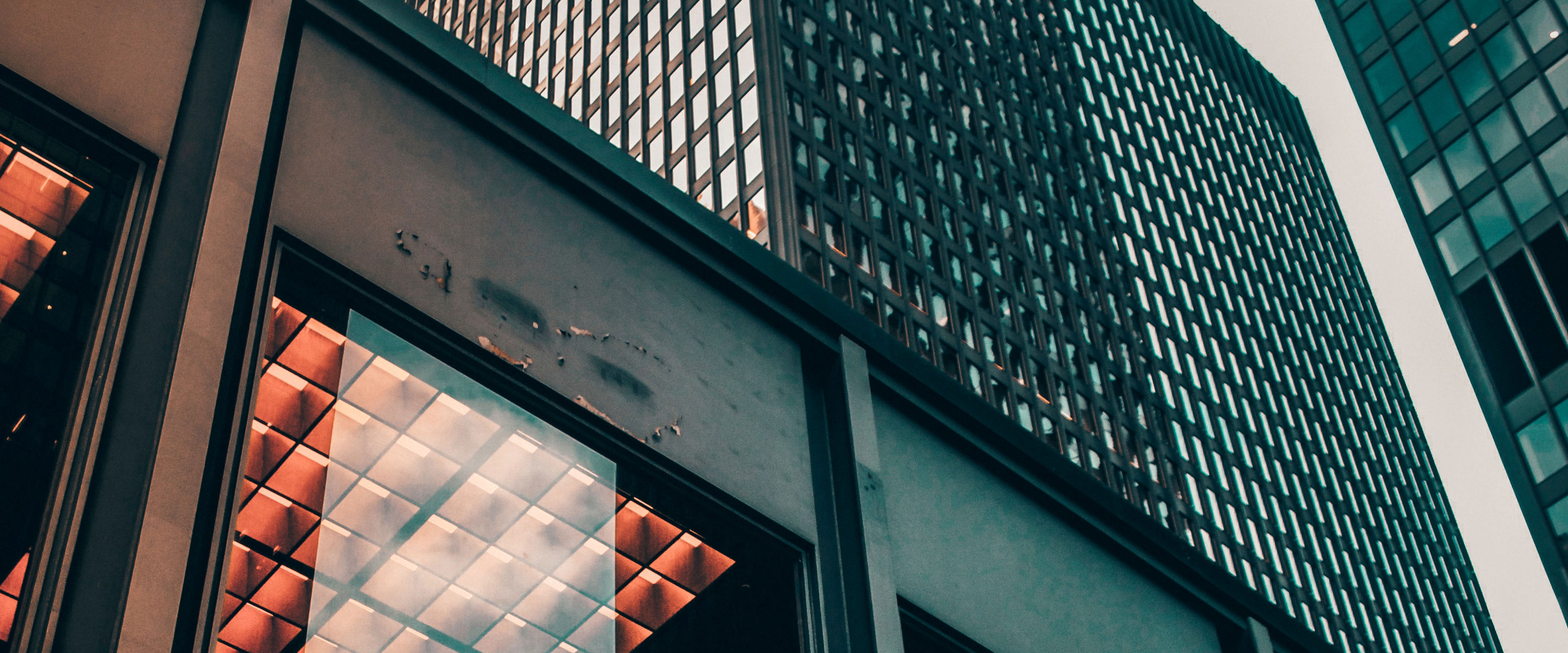
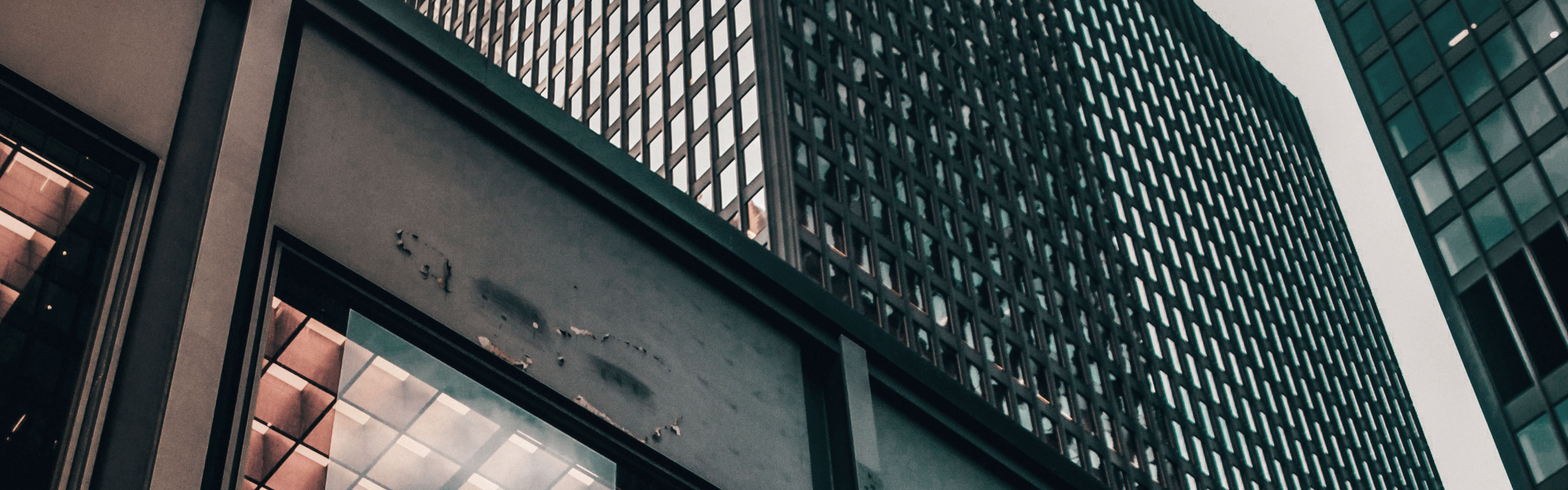
Changed Parallax Backgrounds, Starting to Add Titles, Added SVG Waves to Welcome/About Me

diff --git a/client/src/components/AboutMe/AboutMe.jsx b/client/src/components/AboutMe/AboutMe.jsx
@@ -6,18 +6,27 @@ import './aboutme.scss';
 
 function AboutMe() {
   return (
+    <>
+    <div className="parallax parallax1">
+        <h2 className="aboutme__section-title">a <span className="outline">b</span><span className="outline">i</span>t ab<span className="outline">o</span>ut me.</h2>
+    </div>
     <div className="aboutme section" id="aboutme">
         <p className="title" style={{display: 'none'}}>about me</p>
         <img src={Flowers} alt="Flowers" className="aboutme__flowers flowers"/>
         <img src={Paint} alt="Flowers" className="aboutme__image aboutme__image1"/>
         <img src={Paint2} alt="Flowers" className="aboutme__image aboutme__image2"/>
-        <h2 className="aboutme__heading">a <span className="outline">b</span><span className="outline">i</span>t ab<span className="outline">o</span>ut me.</h2>
+        <h2 className="aboutme__heading">who are you?</h2>
         <div className="aboutme__section">
             <p className="aboutme__text aboutme__text1"><b><span className="bold">My name is Sandy and I am primarily a registered nurse. </span></b>I graduated from university in 2015 and have been working as a nurse since then. In August 2020 to October 2020, I enrolled in the <span className="highlight bold">BrainStation Web Development</span> certificate course. I had an amazing time, learning about the webdev world and connecting with like-minded individuals who were seeking to transition their careers into tech. I have always had an interest in tech and this began for me at a very young age. <br/><br/><br/><b>During my time at the bootcamp, I was given the opportunity to work as a <span className="bold">Public Health Nurse</span></b> with my local city to aide in the <span className="red bold">COVID-19 pandemic</span> response. I took this job opportunity and although it's had its advantages, it also meant putting a pause on my full-stack career. This portfolio, along with other small projects, have been a way for me to help maintain some skills I've learned in the bootcamp─ hopefully I am successul in showcasing them.</p>
             <p className="aboutme__text aboutme__text2">Outside of work, I spend an incredible amount of time gaming on my PC. One of my accomplishments is that I was able to build a PC to call my own. I am very much a <span className="rainbow aboutme--bold">supporter of RGB</span>. 
             <br/><br/>Presently, my go-to games are <a href="https://tracker.gg/valorant/profile/riot/Chawpsticks%23123/overview" target="_blank" rel="noreferrer"><span className="valorant red">Valorant</span></a> and <span className="bold">Lost Ark</span>. I have been playing Valorant (hardstuck plat) since beta and I play Lost Ark when work is slow (current iLvl is 1370). Before that, I wasted a lot of time playing <a href="https://na.op.gg/summoners/na/Chawpsticks" target="_blank" rel="noreferrer"><span className="league bold">League of Legends</span></a> (played for 8 seasons, highest rank achieved was plat 1). Other than gaming, I do enjoy spending time hanging out with loved ones and travelling.</p>
+            <div className="blob">
+            
+            </div>
         </div>
+        <div className="parallax parallax2"></div>
     </div>
+    </>
   )
 }
 

diff --git a/client/src/components/AboutMe/aboutme.scss b/client/src/components/AboutMe/aboutme.scss
@@ -1,7 +1,7 @@
 @import '../../partials/global';
 
 .aboutme {
-    height: 100vw;
+    height: 130vw;
     // background-color: rgb(182, 204, 226,1);
     background-color: rgba(231, 242, 252, 0.8);
     margin: 0;
@@ -9,7 +9,7 @@
     &__flowers {
         width: 35%;
         top: 1;
-        margin-top: 83.45vw;
+        margin-top: 141.5vw;
         position: absolute;
         right: 0;
         transform: scaleX(-1);
@@ -20,7 +20,7 @@
         background-position: 20% 30%;
         background-clip: text;
         color: transparent;
-        padding: 18vw 0 0 8vw;
+        padding: 15vw 0 0 8vw;
         margin: 0;
         text-align: left;
     }
@@ -39,13 +39,24 @@
             height: 18vw;
             right: 9%;
             top: 1;
-            margin-top: 73.75vw;
+            margin-top: 106.5vw;
         }
 
     }
     &__section {
         position: absolute;
         display: flex;
+
+        &-title {
+            color: white;
+            font-weight: normal;
+            border: 1px white double;
+            width: 40%;
+            margin: auto;
+            padding: 1vw 3vw;
+            opacity: 0.7;
+            
+        }
     }
     &__text {
         width: 35%;
@@ -54,7 +65,7 @@
         font-weight: bolder;
 
         &2 {
-            margin-top: 45vw;
+            margin-top: 80vw;
             width: 37.5%;
             font-weight: bold;
         }
@@ -86,3 +97,13 @@
     font-weight: normal;
 }
 
+.blob {
+    position: absolute;
+    top: 0;
+    left: 0;
+    fill: #023F92;
+    width: 20vmax;
+    height: 20vw;
+    animation: move 10s ease-in-out infinite;
+    transform-origin: 50% 50%;
+  }

diff --git a/client/src/components/Welcome/welcome.scss b/client/src/components/Welcome/welcome.scss
@@ -1,15 +1,14 @@
 @import '../../partials/global';
 
 .welcome {
-    height: 50vw;
+    height: 45vw;
     color: white;
-    background-color: rgba(66, 87, 107, 0.8);
-    background-color: rgba(59, 75, 94, 0.8);
+    background-color: rgba(59, 75, 94, 1);
     margin: 0;
 
     &__image {
         width: 35%;
-        margin-top: 33.45vw;
+        margin-top: 56.5vw;
     }
 
     &__section {
@@ -31,13 +30,13 @@
 
     &__title {
         background-image: url('../../assets/images/flower3.gif');
-        background-position: 10% 70%;
+        background-position: 0% 105%;
         background-clip: text;
         color: transparent;
         margin: 0;
     }
     &__maintext {
-        margin-top: -29vw;
+        margin-top: -41vw;
 
         &-first {
             color: $fadedorange;
@@ -46,6 +45,33 @@
         &-second {
             color: $greenblue;
             font-weight: bold;
+        }
+    }
+    &__wave {
+        margin-top: -16vw;
+        transform: scaleX(-1);
+        z-index: 0;
+        width: 100%;
+        opacity: 0.7;
+
+         &1 {
+            transform: rotate(180deg) scaleX(-1);
+            margin-top: -145.5vw;
+         }
+         &2 {
+            margin-top: 30vw;
+         }
+
+        &-svg {
+            stroke: none; 
+            fill: rgba(59, 75, 94, 1);
+            margin-top: 15vw;
+
+            &1 {
+                stroke: none; 
+                fill: rgba(231, 242, 252, 0.8);
+                margin-top: 15vw;
+            }
         }
     }
 }

diff --git a/client/src/components/Welcome/Welcome.jsx b/client/src/components/Welcome/Welcome.jsx
@@ -13,6 +13,16 @@ function Welcome() {
                 <p className="welcome__maintext"><span className="welcome__maintext-first">Hi! You've managed to stumble upon my personal portfolio─ congratulations.</span> It's nice to have some company so feel free to take a look around. I created this webpage from scratch so I hope it's somewhat impressive. Keep scrolling down to learn about me and the small projects I've worked on, and don't hesitate to <a href="#contact"><span className="welcome__maintext-second">connect with me!</span></a></p>
             </div>
         </div>
+        <div className="welcome__wave welcome__wave1">
+          <svg viewBox="0 60 500 500" preserveAspectRatio="xMinYMin meet">
+            <path className="welcome__wave-svg welcome__wave-svg1" d="M0,100 C150,200 350,0 500,100 L500,00 L0,0 Z"></path>
+          </svg>
+        </div>
+        <div className="welcome__wave welcome__wave2">
+          <svg viewBox="0 60 500 500" preserveAspectRatio="xMinYMin meet">
+            <path className="welcome__wave-svg welcome__wave-svg2" d="M0,100 C150,200 350,0 500,100 L500,00 L0,0 Z"></path>
+          </svg>
+        </div>
     </div>
   )
 }

diff --git a/client/src/components/Home/home.scss b/client/src/components/Home/home.scss
@@ -11,18 +11,26 @@
 
 .parallax {
     background-attachment: fixed;
-    background-size: 100%;
+    background-size: cover;
     background-repeat: no-repeat;
-    background-position: bottom;
+    background-position: center;
     height: 30vw;
 
     &1 {
         background-image: url('../../assets/images/toronto_01.jpg');
+        text-align: center;
+        margin: auto;
+        vertical-align: middle;
+        align-items: center;
     }
     &2 {
-        background-image: url('../../assets/images/toronto_02.gif');
+        background-image: url('../../assets/images/toronto_02.jpg');
+        margin-top: 42vw;
     }
     &3 {
-        background-image: url('../../assets/images/toronto_03.gif');
+        background-image: url('../../assets/images/toronto_03.jpg');
+    }
+    &4 {
+        background-image: url('../../assets/images/toronto_04.jpg');
     }
 }

diff --git a/client/src/components/Home/Home.jsx b/client/src/components/Home/Home.jsx
@@ -90,11 +90,8 @@ class Home extends React.Component {
         <HeaderBar state={this.state} logoHover={this.logoHover}/>
         <NavBar changeHeaderBar={this.changeHeaderBar} changeAboutMe={this.changeAboutMe} changeProjects={this.changeProjects} changeContact={this.changeContact}/>
         <Welcome />
-        <div className="parallax parallax1"></div>
         <AboutMe state={this.state}/>
-        <div className="parallax parallax2"></div>
         <Projects state={this.state}/>
-        <div className="parallax parallax3"></div>
         <Contact state={this.state}/>
         <Footer state={this.state}/>
       </div>

diff --git a/client/src/components/Projects/Projects.jsx b/client/src/components/Projects/Projects.jsx
@@ -4,11 +4,14 @@ import './projects.scss';
 
 function Projects() {
   return (
+    <>
+    <div className="parallax parallax3"></div>
     <div className="projects section" id="projects">
         <p className="title" style={{display: 'none'}}>projects</p>
         <h2 className="projects__heading">things i've made.</h2>
         <img src={Flowers} alt="Flowers" className="projects__flowers flowers"/>
     </div>
+    </>
   )
 }
 

diff --git a/client/src/components/HeaderBar/headerbar.scss b/client/src/components/HeaderBar/headerbar.scss
@@ -24,7 +24,7 @@
     &__menu {
         width: 8vw;
         height: 151px;
-        background-color: rgba($menublue, 0.8);
+        background-color: rgba($menublue, 0.9);
         margin: 0;
         color: white;
         font-size: 40px;
@@ -77,6 +77,7 @@
             top: 1;
             margin-top: 11vw;
             display: flex;
+            opacity: 0.8
         }
     }
 }

diff --git a/client/src/components/Projects/projects.scss b/client/src/components/Projects/projects.scss
@@ -1,7 +1,7 @@
 @import '../../partials/global';
 
 .projects {
-    height: 70vw;
+    height: 75vw;
     // background-color: rgba(97, 128, 158, 0.8);
     background-color: rgba(96, 114, 133, 0.8);
 
@@ -18,7 +18,7 @@
     &__flowers {
         width: 35%;
         top: 1;
-        margin-top: 17.85vw;
+        margin-top: 51vw;
         position: absolute;
         left: 0;
     }

diff --git a/client/src/components/Contact/contact.scss b/client/src/components/Contact/contact.scss
@@ -1,7 +1,7 @@
 @import '../../partials/global';
 
 .contact {
-    height: 100vw;
+    height: 90vw;
     background-color: rgba(211, 211, 211, 1);
 
     &__heading {
@@ -93,7 +93,7 @@
         position: absolute;
         right: 7%;
         top: 1;
-        margin-top: 40vw;
+        margin-top: 41vw;
         justify-content: space-between;
     }
     &__arrow {

diff --git a/client/src/components/Contact/Contact.jsx b/client/src/components/Contact/Contact.jsx
@@ -63,6 +63,8 @@ function Contact() {
   }
 
   return (
+    <>
+    <div className="parallax parallax4"></div>
     <div className="contact section" id="contact">
         <p className="title" style={{display: 'none'}}>contact</p>
         <div className="contact__container">
@@ -106,6 +108,7 @@ hi
             </div>
         </div>
     </div>
+    </>
   )
 }
 

diff --git a/client/src/components/NavBar/navbar.scss b/client/src/components/NavBar/navbar.scss
@@ -16,7 +16,7 @@ a {
     z-index: 999;
     width: 100%;
     height: 50px;
-    background-color: rgba($menublue, 0.8);
+    background-color: rgba($menublue, 0.9);
     transform: scaleY(0);
     transform-origin: top;
 
